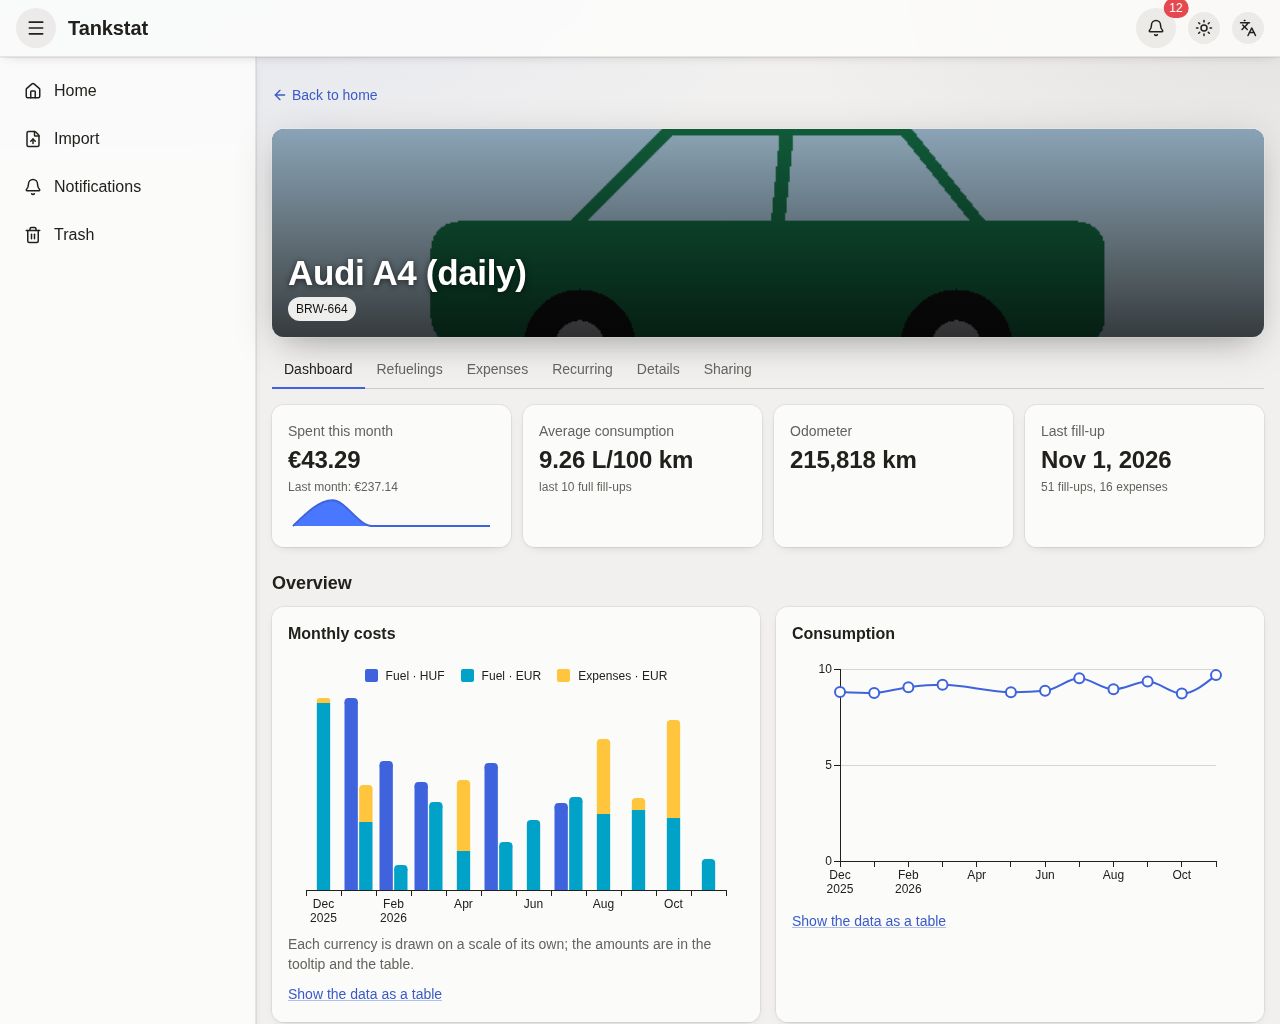
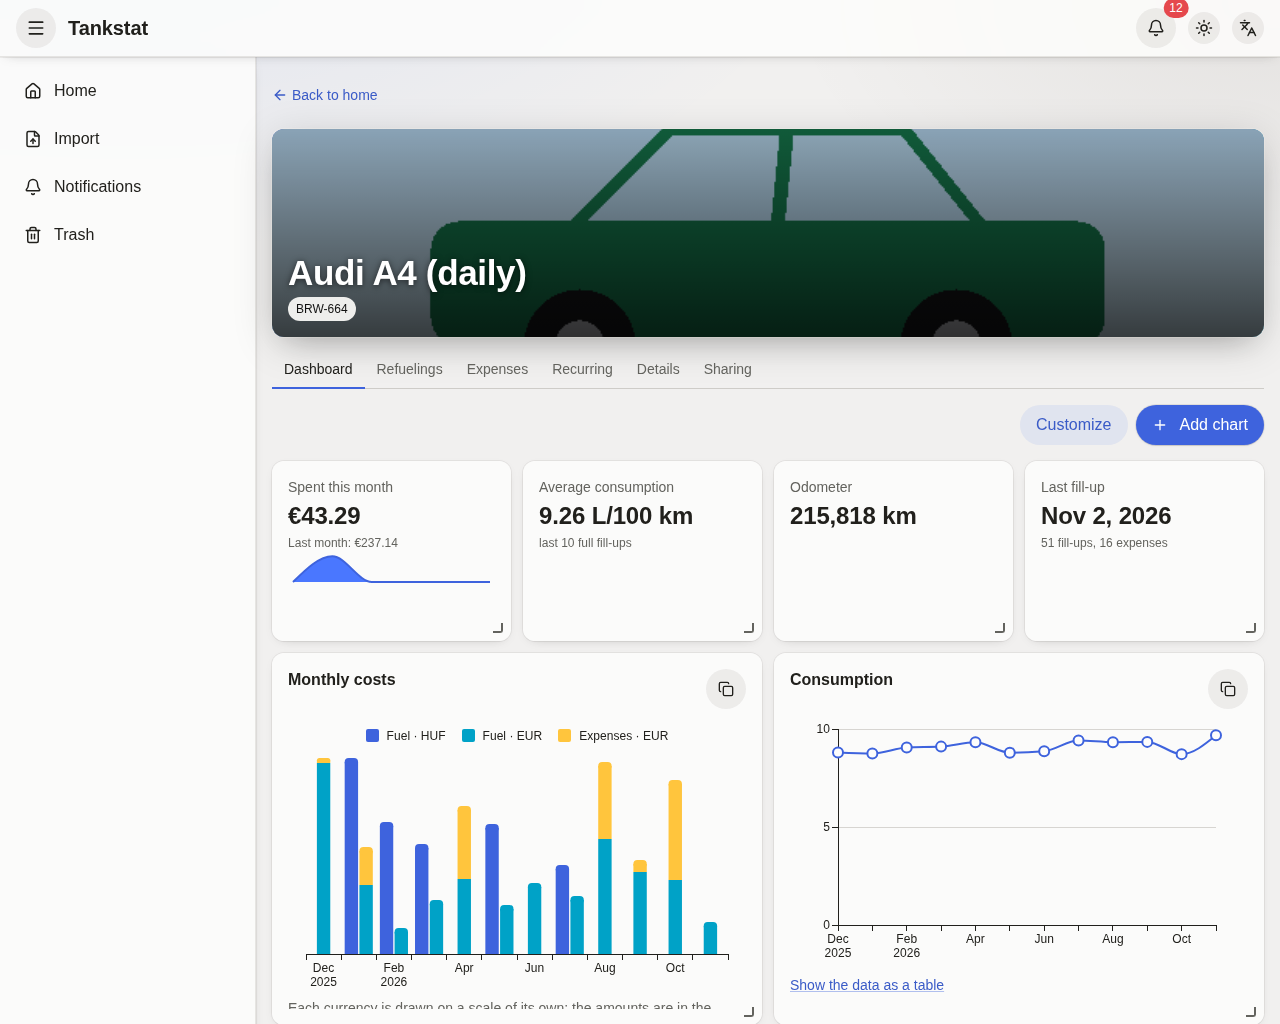
Changelog for 0.18.0, the Compose example runs 0.18, and the screenshots show the dashboard grid
The section covers the discounts (#204), the opt-in telemetry (#214, #219) and the dashboard work (#211) merged since 0.17.1, with the four migrations and the upgrade notes. The README's screenshots are taken again with `VERSION=0.18.0 mise run screenshots`: the dashboard with Customize and the tiles, the logs with the discount fields.

Claude-Session: https://claude.ai/code/session_01UYby1j4hBaAMViBEVebedH

diff --git a/CHANGELOG.md b/CHANGELOG.md
@@ -2,6 +2,33 @@
 
 Every release of Tankstat, newest first. Each one is a Docker image, `ghcr.io/carathorys/tankstat:<version>`, and a [GitHub release](https://github.com/carathorys/tankstat/releases). The numbers in brackets are the pull requests. Pre-releases (the previews) are not listed: their changes are in the release that followed them.
 
+## 0.18.0 (2026-11-03)
+
+### Added
+
+- **Discounts** (#204: #206, #208, #212, #213). A refuelling keeps the discount the till took off, next to what you paid: a *Discount* field in the dialog, typed or worked out from the litres, the amount paid and the pump's price; *Price per unit before discount* beside the price paid, both as grid columns; and the chart metric *Average fuel price before discounts*. Expenses and *Mark as done* take a discount too. Every sum of spending stays what was paid, and the litres of a refuelling never move by themselves any more: the dialog's rule is in the user guide. Photo reading reads the discount printed for the fuel (and on other receipts), checks the receipt's amounts with it and fills it in; a photo added later keeps the saved values, as before.
+- **Telemetry, opt-in** (#214, #219: #216, #221). Traces, metrics and logs over OTLP to a collector of your choice, off until `OTEL_EXPORTER_OTLP_ENDPOINT` is set. The Server settings page gets a *Telemetry* tab (endpoint, protocol, headers as a secret, service name, and `Telemetry__TraceDatabase` for database spans, off by default) and the setup wizard a skippable Telemetry step. What the log never says is never exported either: no GraphQL variables or documents, no query-string values, no user agent, no database parameters, no one-time code, whatever the SDK's own switches are set to. The app's own spans and metrics (`tankstat.*`) cover backups, the restore and the migrations at start, photo reading and sync. Backups record the telemetry settings too, the headers only with `Backups__Secrets`, and a restore on a machine whose environment sets other telemetry settings, or none, is not refused for them, as for the log levels. `docs/configuration.md` has the section.
+- **Charts that show where things are heading** (#211: #215, #217). A chart over time can carry a **trend line** (a moving average of three periods, or a linear trend the chart words from its first period to its last), a **running total** and **a year earlier** beside it, all worked out by the server and listed in the chart's table; two new metrics, **cost per distance** and **fuel cost per distance**; and a **second measure** in one chart (distance bars with a consumption line) on a scale of its own. Every currency keeps a scale of its own, a fuel price too.
+- **A customizable dashboard** (#211: #218, #223). A vehicle's dashboard is a grid of tiles arranged in place with *Customize*: dragged, resized, pinned, taken off and added back (*Add widget*, by click or drag), with a menu per tile for a keyboard or a screen reader. It can be arranged **for everyone who sees the vehicle** (Edit access to its logs) or **for yourself alone**. Until someone arranges it, the **Standard** preset is the dashboard as it was; **Spending** and **Usage** are two more. Four **trend figures** (spending and cost per distance over the last 12 full months against the 12 before, consumption of the latest fill-ups against the ones before, distance this year against last year to the same day), five more ready-made charts, and **Copy as my chart** on every ready-made one, which opens the chart builder with its recipe.
+
+### Upgrading
+
+- **Four database migrations**, applied at start after the automatic backup that comes before migrations: `AddCostDiscount` (a nullable `Discount` column on `Costs`), `AddChartTrends` and `AddChartSecondMeasure` (five columns on `VehicleCharts`: `Trend`, `RunningTotal`, `CompareYearEarlier`, `SecondKind`, `SecondMetric`), `AddDashboardLayouts` (two tables, `VehicleDashboardLayouts` and `UserDashboardLayouts`).
+- **Nothing to set**: telemetry stays off without `OTEL_EXPORTER_OTLP_ENDPOINT`. A setting the SDK could not use (a wrong endpoint, headers naming a key twice, a certificate file that is not there) leaves telemetry off with a Warning naming the setting, never stops the start.
+- **A system prompt of your own** (`Recognition__OpenAiCompatible__SystemPrompt` or `SystemPromptFile`): the contract and the JSON schema that go with every photo now ask for the discount whatever the prompt says, and the built-in prompt explains which amount it is; compare yours with the one `docs/photo-reading.md` prints.
+- An older web app still open in a browser keeps working: the new chart options and the discount are optional on every input, and an update that leaves the discount out keeps it.
+- The Docker Compose example now runs 0.18 (`TANKSTAT_VERSION` in `.env.example`).
+
+### For developers
+
+- **No test host exports telemetry** (#216): `TestApp`, `ApiFixture`, `AppProcess`, the Seeder's tests and the `test-api`, `test-e2e` and `screenshots` scripts drop a developer's `OTEL_*` and `Telemetry__*` before the app starts. `TestSupport/TelemetryKeys` names the keys, `CapturedSpans` and `CapturedMeasurements` find a test's spans and measurements (#221).
+- **The app's own spans** (#221): `AppTraces` (an `ActivitySource` named `Tankstat`, `StartJob` for work no request carries, `FailedBy` in an exception filter) and `AppMetrics` (a `Meter` from the host's `IMeterFactory`); the conventions are in `.claude/rules/telemetry.md`.
+- **The Seeder** gives a fifth of the fill-ups a discount of one to three per cent, from a random source of its own, so a seed's logs stay as they were (#208).
+- **Bar charts are composed from MUI X's parts** (#215), the way `BarChart` itself is, so a line can be drawn over the bars.
+- **The date-field tests tell a field's sections by one rule** (#205, #207): the day is the section with a maximum of 28 to 31, since the picker caps it at the month shown; the tests no longer fail in a month of 30 days.
+- The README's screenshots are taken again with the dashboard grid and the discount fields.
+- Dependency updates: HotChocolate 16.7.3 (#225); MUI X 9.17, motion 14.9, react-router 8.5.1, i18next, lucide-react, the code generator and oxlint (#224).
+
 ## 0.17.1 (2026-10-28)
 
 A security and dependency release: nothing in the app changes.
